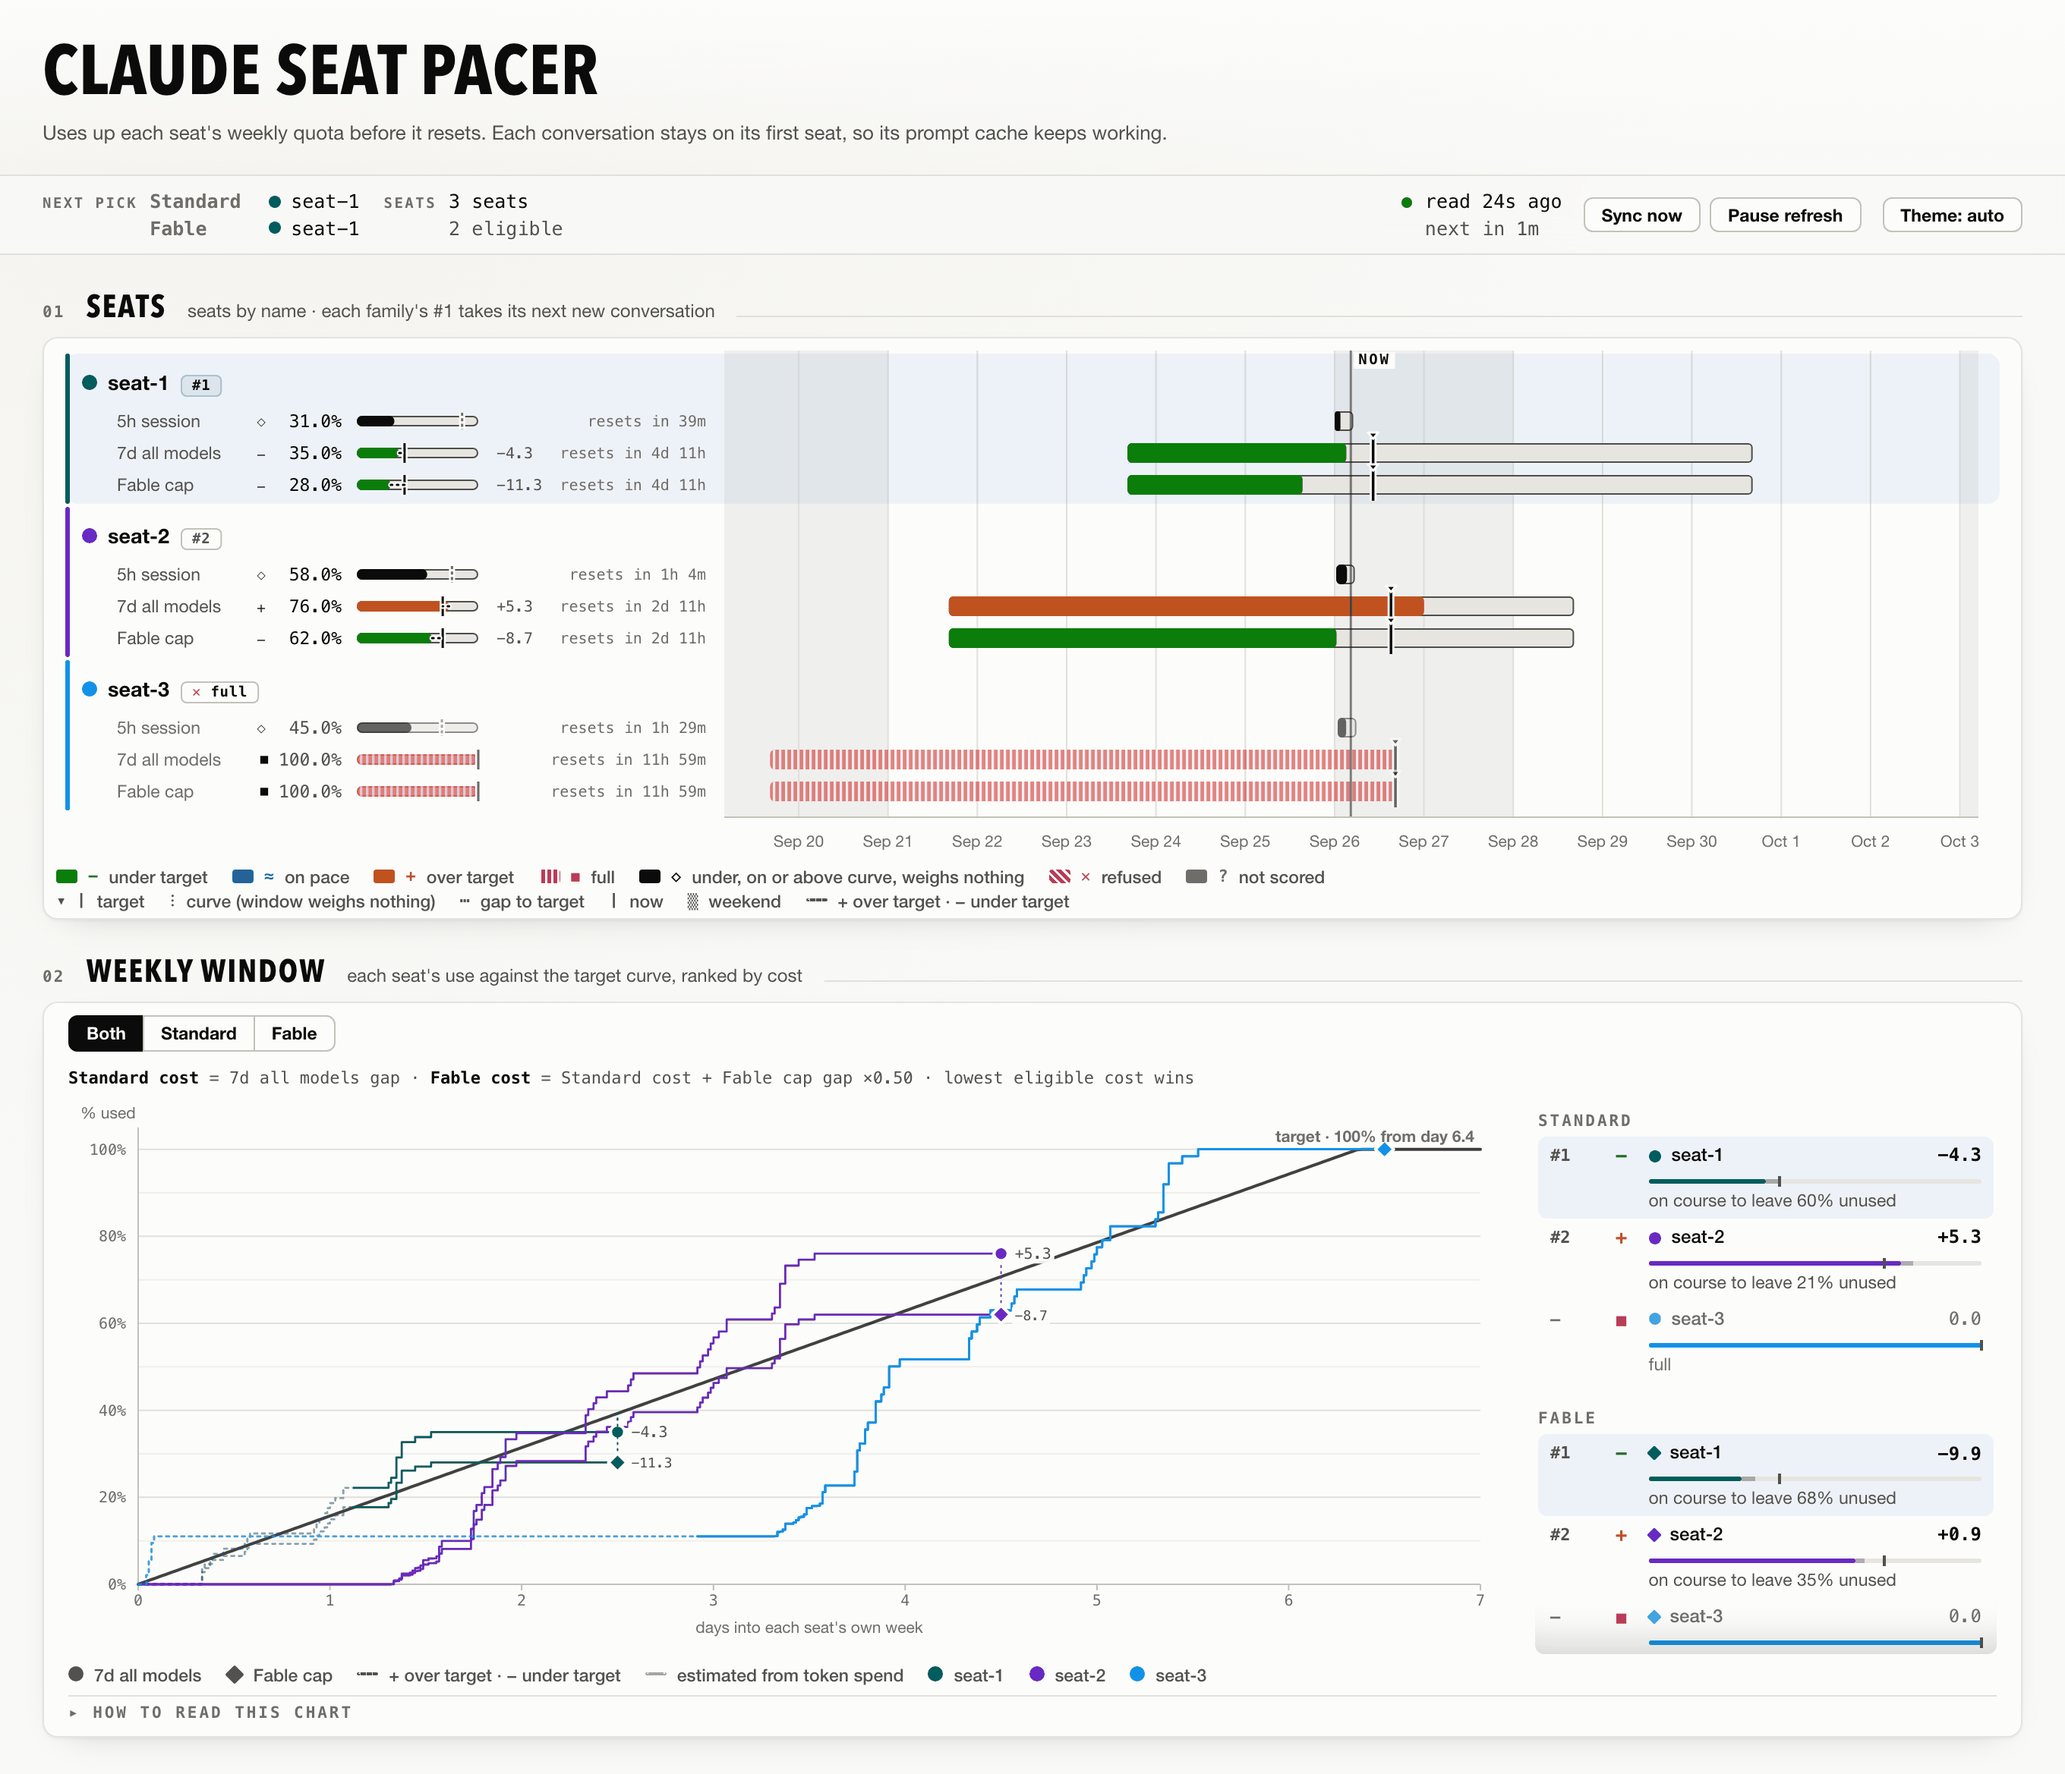
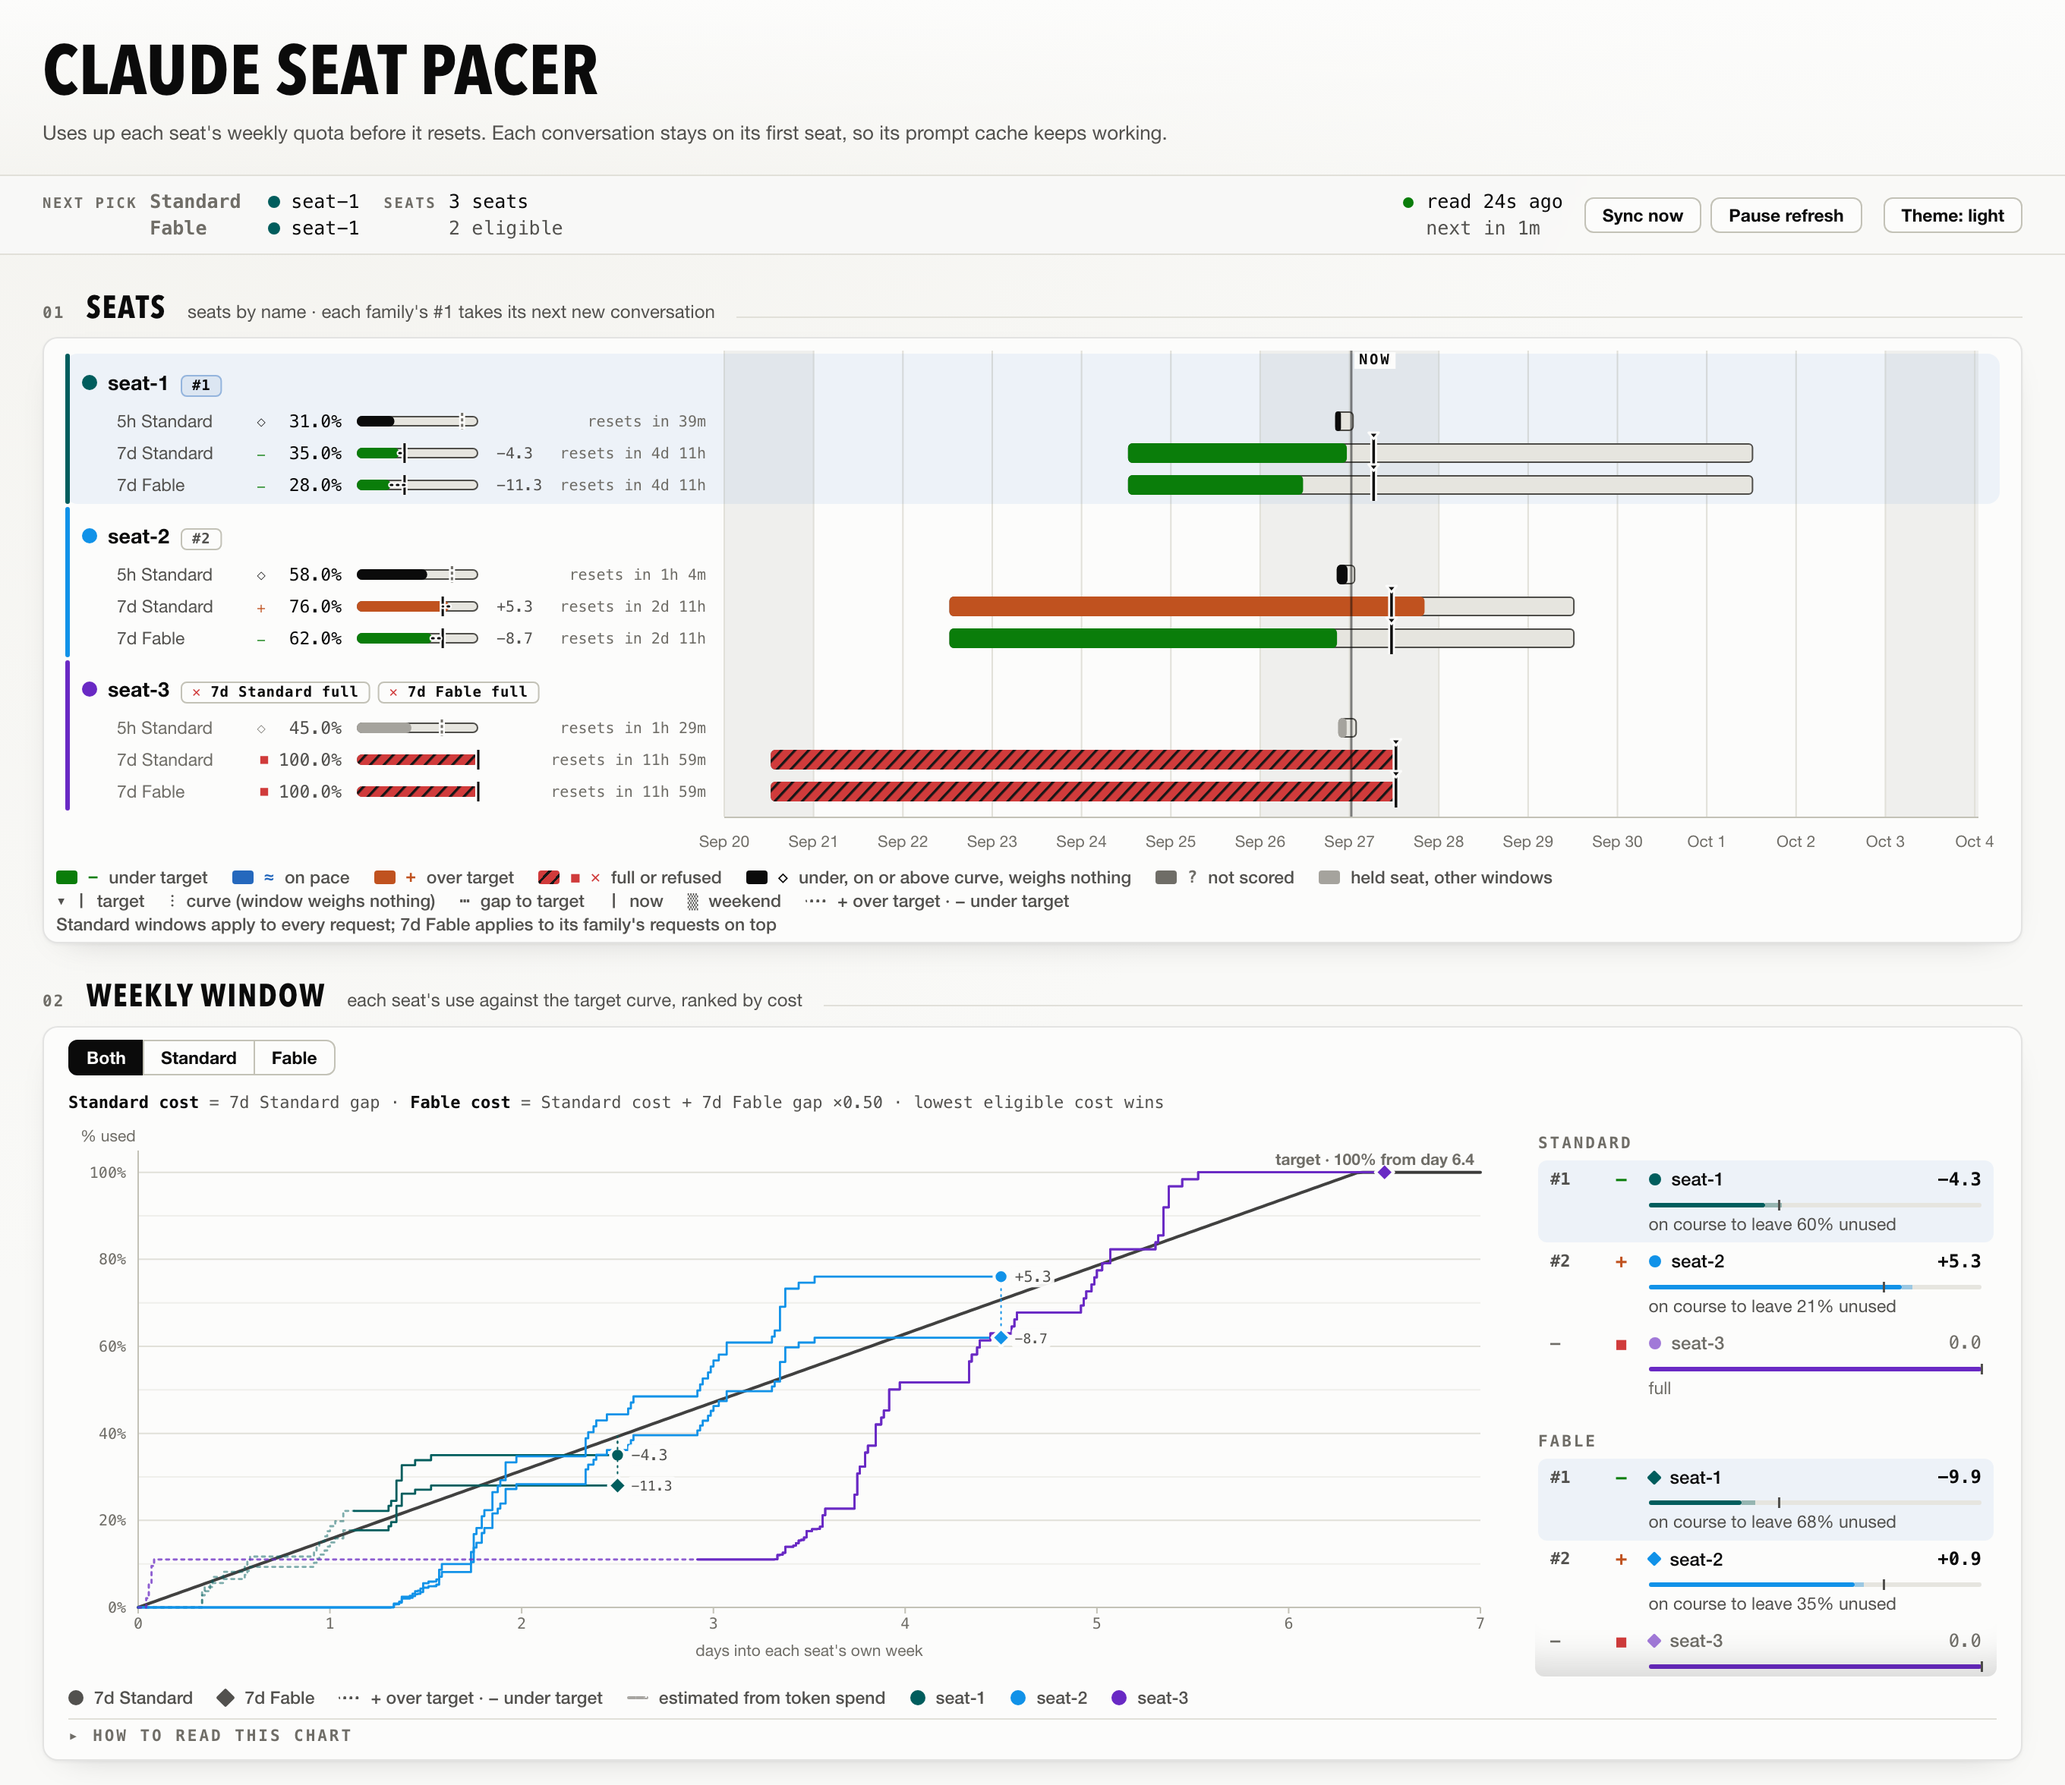
Docs(N/A): Show the status page as it now draws, and name its windows as the page does
The hero screenshots show the page after its windows were named by what
they gate (5h Standard, 7d Standard, 7d Fable), full and refused windows
share the red and black tape, and a held seat's other windows turn grey.
They are captured from `cmd/webdev -scenario many -seats 3` at 1360 by 1176
CSS pixels and a device scale of 2, with `?theme=light` and `?theme=dark`.

The README's Seats bullet describes the tape and the grey, and its window
wording follows the page: a model family's weekly window rather than a
family cap.

diff --git a/README.md b/README.md
@@ -29,9 +29,9 @@ Uses up each Claude seat's weekly quota before it resets by sending every new co
   [How it picks](#how-it-picks) lists when.
 - **Reads every window Anthropic reports.** The usage endpoint gives the
   5-hour window, the weekly all-models window and each model family's weekly
-  cap, read every two minutes by default and again a few seconds after each
-  reset. The headers of every response add fresher readings of the 5-hour
-  and weekly windows and the Fable cap, and any refusal. A seat refused or
+  window, read every two minutes by default and again a few seconds after
+  each reset. The headers of every response add fresher readings of the
+  5-hour, weekly and Fable weekly windows, and any refusal. A seat refused or
   full on a window takes no new conversation for the models that window caps
   while another seat has room, until a later reading shows room on it; a new
   subagent still joins its parent on a full seat, though not on a refused
@@ -272,13 +272,14 @@ target, negative while a seat is behind, so the lowest cost takes the next
 new conversation. A seat held off ranks below them.
 
 - **Next pick.** The bar across the top names the eligible seat the next new
-  conversation lands on, for Standard requests and for each family cap, or
-  that no seat is eligible, with the reason when the seats share one. It
-  shows the count of eligible seats and the age of the newest reading, and
-  its Sync now button reads every seat at once.
+  conversation lands on, for Standard requests and for each model family with
+  a weekly window of its own, or that no seat is eligible, with the reason
+  when the seats share one. It shows the count of eligible seats and the age
+  of the newest reading, and its Sync now button reads every seat at once.
 - **Seats.** Each seat's windows as bars, the weekly ones against their plan,
   with the gap to target and the time to reset, beside a two-week time axis
-  showing each window's current cycle. A refused window is hatched.
+  showing each window's current cycle. A window holding its seat off, full or
+  refused, is taped red and black, and that seat's other windows turn grey.
 - **Weekly window.** Every seat's use plotted against the target curve over
   its own week, and the seats ranked by cost, each with where it is headed at
   its last 24 hours' rate.
